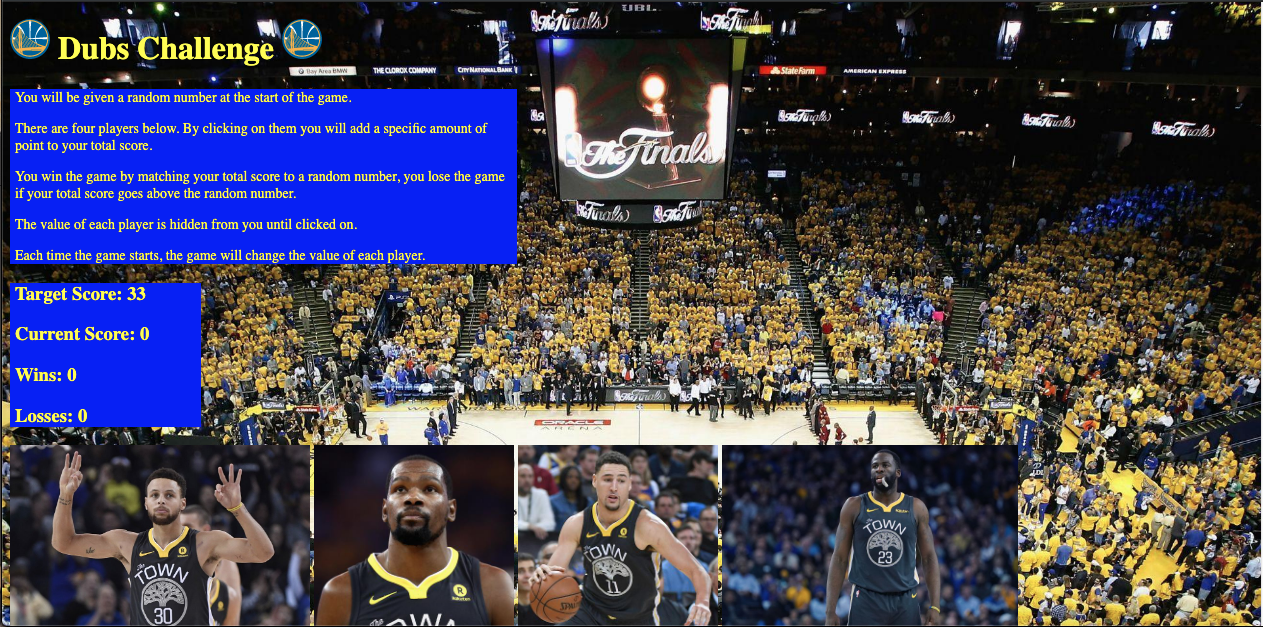
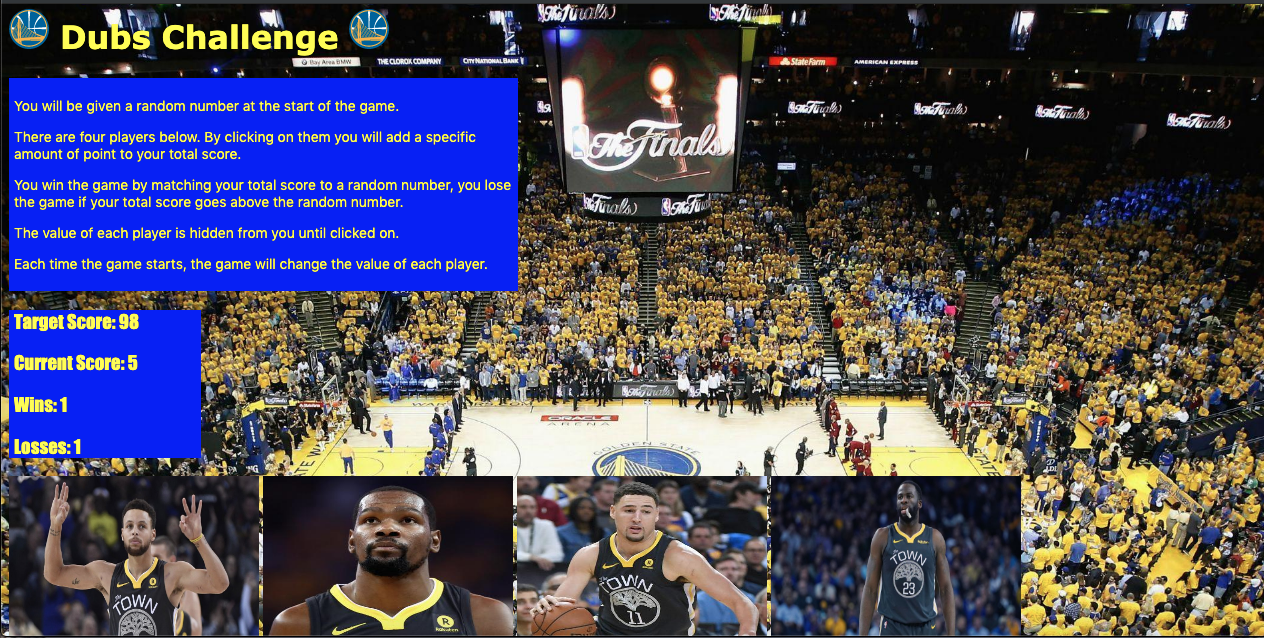
Changed font-family in CSS on h1, p, and score-counter elements. Added an updated screenshot for README file.

diff --git a/assets/css/style.css b/assets/css/style.css
@@ -4,9 +4,11 @@ body {
 }
 img {
     height: 200px;
+    width: 250px;
 }
 h1 {
     color: yellow;
+    font-family: Verdana, Geneva, Tahoma, sans-serif;
 }
 #warriors-thumb {
     height: 40px;
@@ -17,12 +19,28 @@ h1 {
     color: yellow;
     font-size: 14px;
     width: 40%;
-    padding-left: 5px;
-    padding-right: 5px;
+    padding: 5px;
+    font-family: -apple-system, BlinkMacSystemFont, 'Segoe UI', Roboto, Oxygen, Ubuntu, Cantarell, 'Open Sans', 'Helvetica Neue', sans-serif;
 }
 #score-counter {
     background-color: blue;
     color: yellow;
     width: 15%;
     padding-left: 5px;
+    font-family: Impact, Haettenschweiler, 'Arial Narrow Bold', sans-serif;
 }
+@media (max-width: 540px) {
+    h1 {
+        font-size: 16px;
+    } 
+    p {
+        font-size: 10px;
+    }
+    .player_images {
+        height: 100px;
+        width: 125px;
+    }
+    #score-counter {
+        font-size: 14px;
+    }
+  }

diff --git a/index.html b/index.html
@@ -5,8 +5,8 @@
         <title>Dubs Challenge</title>
         <meta name="viewport" content="width=device-width, initial-scale=1">
         <script src="https://code.jquery.com/jquery-3.4.1.js" integrity="sha256-WpOohJOqMqqyKL9FccASB9O0KwACQJpFTUBLTYOVvVU=" crossorigin="anonymous"></script>
-        <link rel="stylesheet" href="./assets/css/style.css">
         <!-- <link rel="stylesheet" href="./assets/css/reset.css"> -->
+        <link rel="stylesheet" href="./assets/css/style.css">
     </head>
     
     <body>
